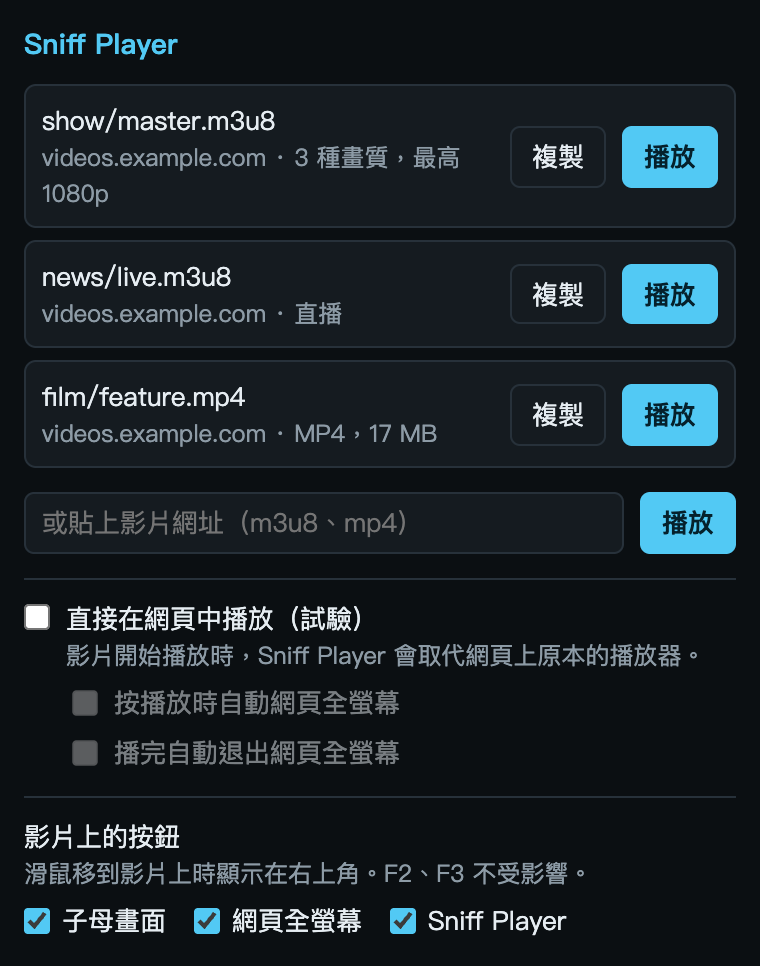
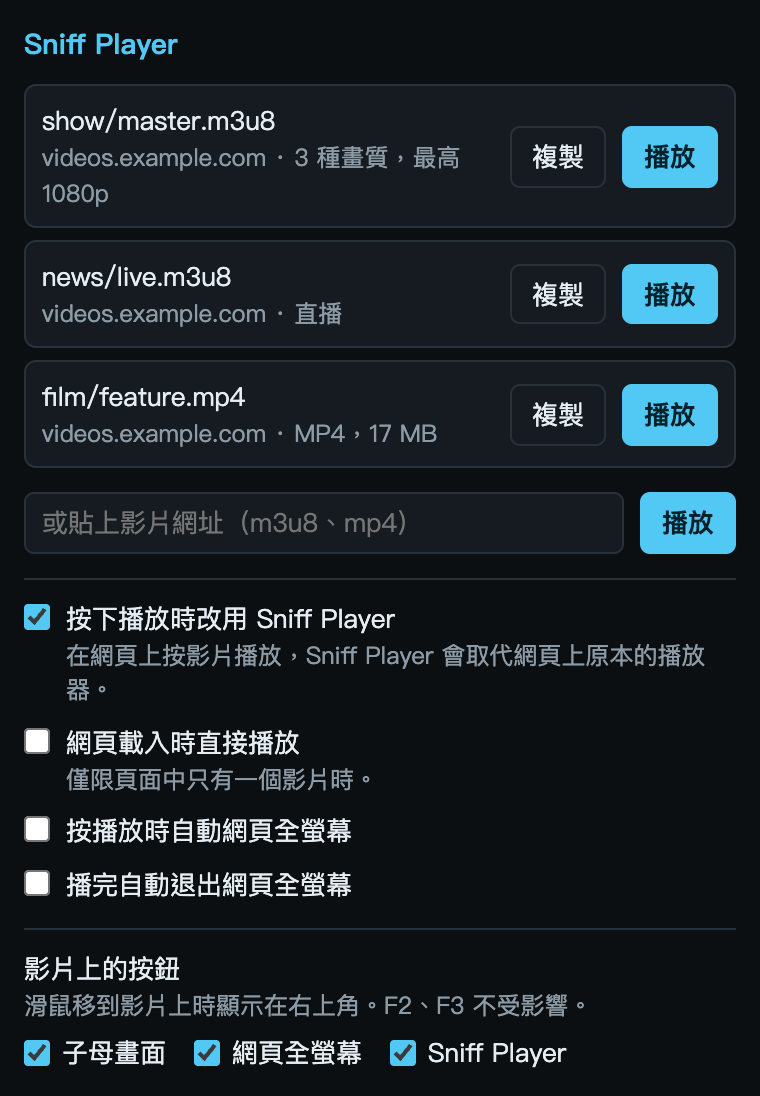
Play in the page, as four settings of their own: pressing play on a video swaps in Sniff Player, on unless turned off; Play when the page loads (was the experimental Play in the page) swaps a video that starts by itself only on a page with a single video, and one left to the site swaps when its play

diff --git a/extension/embed.js b/extension/embed.js
@@ -1,4 +1,5 @@
-// Put into a frame only when "Play in the page" is on and a video was found there. It swaps the
+// Put into a frame when a video was found there and one of the two settings is on: "Use Sniff
+// Player when you press play" (on unless turned off) or "Play when the page loads". It swaps the
 // site's player for Sniff Player in the same place, and fills the window when asked.
 //
 // The player is built into the page itself, in a closed shadow root. Its requests are the page's
@@ -395,7 +396,35 @@
     else unfill();
   }, true);
 
-  async function findAndSwap({ url, kind, title, fillOnPlay, unfillOnEnd }) {
+  // Whether the person started this video, rather than the page. buttons.js saw its play event,
+  // unless the site is one it leaves out or the video is in a shadow root; then the press alone.
+  function pressedPlay(video) {
+    const seen = globalThis.__sniffPlayerPressedPlay;
+    if (seen && video.getRootNode() === document) return seen(video);
+    return !!navigator.userActivation?.isActive;
+  }
+
+  // A video that started by itself and wasn't swapped: pressing play on it later swaps it, as long
+  // as it still plays what was found.
+  const waitingForPress = new WeakSet();
+  function swapWhenPressed(video, found) {
+    if (waitingForPress.has(video)) return;
+    waitingForPress.add(video);
+    const source = video.currentSrc;
+    const onPlay = () => {
+      if (!navigator.userActivation?.isActive) return;
+      video.removeEventListener('play', onPlay);
+      waitingForPress.delete(video);
+      if (!alive() || !video.isConnected || video.currentSrc !== source || current?.video === video) return;
+      if (current) restore(null, true, true);
+      swap(video, found.url, found.kind, found.title, found.options);
+      tellWorker({ type: 'swapped' });
+    };
+    video.addEventListener('play', onPlay);
+  }
+
+  async function findAndSwap({ url, kind, title, fillOnPlay, unfillOnEnd, onPress, onLoad }) {
+    const options = { fillOnPlay: fillOnPlay === true, unfillOnEnd: unfillOnEnd === true };
     for (let tries = 0; tries < FIND_TRIES; tries += 1) {
       const video = findVideo(url);
       if (video && current && (video === current.video || url === current.url)) return { ok: false };
@@ -405,9 +434,18 @@
         continue;
       }
       if (video) {
+        // Pressed play: swapped when that setting is on. Started by itself: only when the page
+        // has this one video and "Play when the page loads" is on.
+        const pressed = pressedPlay(video);
+        const allowed = pressed ? onPress === true
+          : onLoad === true && allVideos().filter((each) => each.isConnected && bigEnough(each)).length === 1;
+        if (!allowed) {
+          if (!pressed && onPress === true) swapWhenPressed(video, { url, kind, title, options });
+          return { ok: false };
+        }
         // Another video on the page started, the next episode say: it takes over from the last.
         if (current) restore(null, true, true);
-        swap(video, url, kind, title, { fillOnPlay: fillOnPlay === true, unfillOnEnd: unfillOnEnd === true });
+        swap(video, url, kind, title, options);
         return { ok: true };
       }
       await new Promise((resolve) => { setTimeout(resolve, FIND_INTERVAL_MS); });

diff --git a/extension/background.js b/extension/background.js
@@ -226,17 +226,18 @@ async function inspectOne(tabId, entry) {
   )));
 }
 
-// Playing in the page, when the setting is on. A found video takes the place of the site's player
+// Playing in the page, when either setting is on: on a press of play (on unless the person turns
+// it off), or for the one video of a page that starts by itself (off unless turned on). A found video takes the place of the site's player
 // in the frame that loaded it, built into that page so that it makes the page's own requests. One
 // swap per tab at a time: the next video started takes over from the last. A frame where the
 // person went back to the site's player is left alone
 // until it navigates. Kept in storage.session, because this worker can stop at any time.
-const SETTING = 'playInPage';
 const swapKey = (tabId) => `swap:${tabId}`;
 const claimed = new Set(); // Tabs with a swap starting, before storage has caught up.
 
-async function playInPageOn() {
-  return (await chrome.storage.local.get(SETTING))[SETTING] === true;
+async function swapSettings() {
+  const stored = await chrome.storage.local.get(['swapOnPress', 'playInPage']);
+  return { onPress: stored.swapOnPress !== false, onLoad: stored.playInPage === true };
 }
 
 async function swapState(tabId) {
@@ -244,7 +245,9 @@ async function swapState(tabId) {
 }
 
 async function maybeEmbed(tabId, frameId, found) {
-  if (claimed.has(tabId) || !(await playInPageOn()) || claimed.has(tabId)) return;
+  if (claimed.has(tabId)) return;
+  const { onPress, onLoad } = await swapSettings();
+  if ((!onPress && !onLoad) || claimed.has(tabId)) return;
   // Taken before anything else waits, so that the playlists of one video make one swap.
   claimed.add(tabId);
   try {
@@ -259,7 +262,7 @@ async function maybeEmbed(tabId, frameId, found) {
     const { fillOnPlay, unfillOnEnd } = await chrome.storage.local.get(['fillOnPlay', 'unfillOnEnd']);
     const result = await chrome.tabs.sendMessage(tabId, {
       sniff: true, type: 'embed', url: found.url, kind: found.kind, title: tab.title,
-      fillOnPlay: fillOnPlay === true, unfillOnEnd: unfillOnEnd === true,
+      fillOnPlay: fillOnPlay === true, unfillOnEnd: unfillOnEnd === true, onPress, onLoad,
     }, { frameId });
     if (!result?.ok) return;
     // One swap per tab: a video started in another frame takes over from the last one.

diff --git a/extension/buttons.js b/extension/buttons.js
@@ -553,6 +553,38 @@
     }
   }, true);
 
+  // Videos the person started: a play while the frame has a real press, a click on the site's
+  // play button say. A swap on a press uses it to tell them from a video starting by itself. The
+  // play event doesn't leave a shadow root, so a video in one is judged by the press alone.
+  // With "Use Sniff Player when you press play" off, a press of play with "Fill the page when you
+  // press play" fills the page with the site's own player. "Leave the filled page when the video
+  // ends" leaves when a site's player filling the page ends, however it was filled.
+  const PLAY_SETTINGS = ['swapOnPress', 'fillOnPlay', 'unfillOnEnd'];
+  let onPlay = { swapOnPress: true, fillOnPlay: false, unfillOnEnd: false };
+  function applyPlaySettings(stored) {
+    onPlay = { swapOnPress: stored.swapOnPress !== false, fillOnPlay: stored.fillOnPlay === true, unfillOnEnd: stored.unfillOnEnd === true };
+  }
+  try {
+    chrome.storage.local.get(PLAY_SETTINGS).then(applyPlaySettings, () => {});
+    chrome.storage.onChanged.addListener((changes, area) => {
+      if (area !== 'local' || !PLAY_SETTINGS.some((name) => name in changes)) return;
+      chrome.storage.local.get(PLAY_SETTINGS).then(applyPlaySettings, () => {});
+    });
+  } catch {
+    // Cut off from the extension: the defaults stand.
+  }
+  const pressedPlay = new WeakSet();
+  document.addEventListener('play', (event) => {
+    const video = event.target;
+    if (!(video instanceof HTMLVideoElement) || !navigator.userActivation?.isActive) return;
+    pressedPlay.add(video);
+    if (!onPlay.swapOnPress && onPlay.fillOnPlay && !filled && isLargeEnough(video)) fillVideo(video);
+  }, true);
+  document.addEventListener('ended', (event) => {
+    if (onPlay.unfillOnEnd && filled && filled.video === event.target) leaveEverywhere();
+  }, true);
+  globalThis.__sniffPlayerPressedPlay = (video) => pressedPlay.has(video);
+
   // Messages from the worker: other frames of this tab
 
   chrome.runtime.onMessage.addListener((message) => {

diff --git a/extension/popup.js b/extension/popup.js
@@ -83,22 +83,16 @@ document.getElementById('manual').addEventListener('submit', (event) => {
   play({ url: document.getElementById('manual-url').value.trim() });
 });
 
-// Off unless the person turns it on. It runs a script in a page only once a video is found there.
-// The two below it apply only to a player in the page, so they wait until it is on.
-const settings = { playInPage: 'play-in-page', fillOnPlay: 'fill-on-play', unfillOnEnd: 'unfill-on-end' };
+// Each setting on its own. A press of play swaps unless the person turns it off; the rest are off
+// unless turned on. Either swap runs a script in a page only once a video is found there.
+const settings = { swapOnPress: 'swap-on-press', playInPage: 'play-in-page', fillOnPlay: 'fill-on-play', unfillOnEnd: 'unfill-on-end' };
+const onUnlessOff = new Set(['swapOnPress']);
 const stored = await chrome.storage.local.get(Object.keys(settings));
-const box = (name) => document.getElementById(settings[name]);
-const showEnabled = () => {
-  for (const name of ['fillOnPlay', 'unfillOnEnd']) box(name).disabled = !box('playInPage').checked;
-};
-for (const name of Object.keys(settings)) {
-  box(name).checked = stored[name] === true;
-  box(name).addEventListener('change', () => {
-    chrome.storage.local.set({ [name]: box(name).checked });
-    showEnabled();
-  });
+for (const [name, id] of Object.entries(settings)) {
+  const input = document.getElementById(id);
+  input.checked = onUnlessOff.has(name) ? stored[name] !== false : stored[name] === true;
+  input.addEventListener('change', () => chrome.storage.local.set({ [name]: input.checked }));
 }
-showEnabled();
 
 // The buttons shown on a video under the pointer. All three show unless the person turns one off.
 const buttonBoxes = { buttonPip: 'button-pip', buttonFill: 'button-fill', buttonSniff: 'button-sniff' };

diff --git a/extension/popup.css b/extension/popup.css
@@ -55,12 +55,11 @@ input {
   font: inherit;
 }
 input:focus { outline: none; border-color: var(--accent); }
-#setting { display: flex; gap: 8px; align-items: flex-start; margin-top: 12px; padding-top: 10px; border-top: 1px solid var(--line); cursor: pointer; }
-#setting input { flex: none; margin: 2px 0 0; accent-color: var(--accent); }
-#setting small { display: block; color: var(--muted); font-size: 12px; }
-.sub-setting { display: flex; gap: 8px; align-items: center; margin: 6px 0 0 24px; cursor: pointer; }
-.sub-setting input { flex: none; margin: 0; accent-color: var(--accent); }
-.sub-setting:has(input:disabled) { opacity: 0.5; cursor: default; }
+#setting, .setting { display: flex; gap: 8px; align-items: flex-start; cursor: pointer; }
+#setting { margin-top: 12px; padding-top: 10px; border-top: 1px solid var(--line); }
+.setting { margin-top: 8px; }
+#setting input, .setting input { flex: none; margin: 2px 0 0; accent-color: var(--accent); }
+#setting small, .setting small { display: block; color: var(--muted); font-size: 12px; }
 #video-buttons { display: flex; flex-wrap: wrap; gap: 6px 14px; margin: 12px 0 0; padding: 10px 0 0; border: 0; border-top: 1px solid var(--line); }
 #video-buttons legend { float: left; width: 100%; padding: 0; }
 #video-buttons small { display: block; color: var(--muted); font-size: 12px; }

diff --git a/extension/popup.html b/extension/popup.html
@@ -14,14 +14,18 @@
     <button type="submit" data-i18n="play"></button>
   </form>
   <label id="setting">
+    <input id="swap-on-press" type="checkbox">
+    <span><span data-i18n="swapOnPress"></span><small data-i18n="swapOnPressHint"></small></span>
+  </label>
+  <label class="setting">
     <input id="play-in-page" type="checkbox">
     <span><span data-i18n="playInPage"></span><small data-i18n="playInPageHint"></small></span>
   </label>
-  <label class="sub-setting">
+  <label class="setting">
     <input id="fill-on-play" type="checkbox">
     <span data-i18n="fillOnPlay"></span>
   </label>
-  <label class="sub-setting">
+  <label class="setting">
     <input id="unfill-on-end" type="checkbox">
     <span data-i18n="unfillOnEnd"></span>
   </label>

diff --git a/PRIVACY.md b/PRIVACY.md
@@ -2,21 +2,21 @@
 
 English · [繁體中文](#繁體中文)
 
-Effective date: 2026-11-11
+Effective date: 2026-11-14
 
 This policy covers the Sniff Player browser extension, published by V-AX.
 
 ## What the extension handles
 
 - **Web history and site content:** the URLs and response headers of the requests your tabs make, and each tab's URL and title. The extension uses them only to recognise HLS playlists and video files, and to name the player tab. It doesn't read the content of the pages you visit, except as described next.
-- **Play in the page (experimental, off unless you turn it on):** in a frame where a video was found, the extension reads the page's video elements, to find the one that loaded the video, and the page's title and the heading near the video, to name it. It doesn't keep or send them.
+- **Play in the page (on by default when you press play on a video; for a page's only video as it loads, only if you turn it on):** in a frame where a video was found, the extension reads the page's video elements, to find the one that loaded the video, and the page's title and the heading near the video, to name it. It doesn't keep or send them.
 - **Buttons on videos:** a small script in every page finds the video under the pointer, to show its buttons. It doesn't read anything else on the page, and keeps and sends nothing. Pressing Sniff Player on a video works as Play in the page does, for that video.
 - **The list of detected videos:** their URLs, qualities, length and size.
 - **URLs you paste** into the extension to play.
 
 ## Where it is kept
 
-The list of detected videos is kept in the browser's session storage. It isn't written to disk, and it's gone when you close the browser. The only other things stored are your settings, whether Play in the page and its two options are on and which buttons show on videos, in the browser's local storage. A video you play opens in a normal tab, so its URL can stay in your browser history like any other page.
+The list of detected videos is kept in the browser's session storage. It isn't written to disk, and it's gone when you close the browser. The only other things stored are your settings, which of the four Play in the page settings are on and which buttons show on videos, in the browser's local storage. A video you play opens in a normal tab, so its URL can stay in your browser history like any other page.
 
 ## What is sent, and to whom
 
@@ -25,7 +25,7 @@ The extension has no server and no analytics. It sends nothing to V-AX or to any
 - It reads each detected playlist once, without cookies, to learn its qualities and length.
 - When you press Play, the player requests the video from its own host, with your cookies for that host only.
 - If a host refuses a request, the player sends that host the origin of the page where the video was found, once.
-- With Play in the page on, the player in a page requests the video as part of that page, with the same cookies and origin the site's own player would send.
+- When Sniff Player plays in a page, the player there requests the video as part of that page, with the same cookies and origin the site's own player would send.
 
 ## What we don't do
 
@@ -39,21 +39,21 @@ If this policy changes, the new version will be published at this address with a
 
 ## 繁體中文
 
-生效日期：2026-11-11
+生效日期：2026-11-14
 
 本政策適用於 V-AX 發布的 Sniff Player 瀏覽器擴充工具。
 
 ### 擴充工具會處理的資料
 
 - **網頁記錄與網站內容：** 分頁發出的請求網址與回應標頭，以及每個分頁的網址和標題。只用來辨識 HLS 播放清單和影片檔，以及為播放分頁命名。除了下一項，不讀取你造訪網頁的內容。
-- **直接在網頁中播放（試驗，你開啟才會用）：** 在偵測到影片的框架裡，擴充工具會讀取網頁上的影片元素，找出載入該影片的那一個，並讀取網頁標題和影片附近的標題來命名。這些資料不會保存或傳送。
+- **直接在網頁中播放（按下播放時預設開啟；網頁載入時直接播放要你開啟才會用）：** 在偵測到影片的框架裡，擴充工具會讀取網頁上的影片元素，找出載入該影片的那一個，並讀取網頁標題和影片附近的標題來命名。這些資料不會保存或傳送。
 - **影片上的按鈕：** 每個網頁裡都有一段小程式，找出滑鼠下的影片來顯示按鈕，不讀網頁其他內容，也不保存或傳送任何資料。在影片上按 Sniff Player，就跟「直接在網頁中播放」一樣處理那支影片。
 - **偵測到的影片清單：** 影片網址、畫質、片長與大小。
 - **你貼上** 要播放的網址。
 
 ### 存放位置
 
-偵測到的影片清單存在瀏覽器的工作階段儲存空間，不寫入磁碟，關閉瀏覽器就會消失。另外只會在瀏覽器的本機儲存空間記住你的設定，也就是「直接在網頁中播放」和它的兩個選項是否開啟，以及影片上要顯示哪些按鈕。你播放的影片會開在一般分頁，所以網址可能和其他網頁一樣留在瀏覽紀錄裡。
+偵測到的影片清單存在瀏覽器的工作階段儲存空間，不寫入磁碟，關閉瀏覽器就會消失。另外只會在瀏覽器的本機儲存空間記住你的設定，也就是網頁中播放的四個設定哪些開啟，以及影片上要顯示哪些按鈕。你播放的影片會開在一般分頁，所以網址可能和其他網頁一樣留在瀏覽紀錄裡。
 
 ### 傳送哪些資料、傳給誰
 
@@ -62,7 +62,7 @@ If this policy changes, the new version will be published at this address with a
 - 每份偵測到的播放清單會不帶 Cookie 再讀一次，以取得畫質與片長。
 - 按下播放時，播放器向影片所在主機請求影片，只帶該主機的 Cookie。
 - 如果主機拒絕請求，播放器會把發現影片的網頁來源送給該主機一次。
-- 開啟「直接在網頁中播放」時，網頁裡的播放器會以那個網頁的身分請求影片，帶的 Cookie 和來源跟網站自己的播放器相同。
+- Sniff Player 在網頁中播放時，網頁裡的播放器會以那個網頁的身分請求影片，帶的 Cookie 和來源跟網站自己的播放器相同。
 
 ### 我們不做的事
 

diff --git a/README.md b/README.md
@@ -34,7 +34,7 @@ For every feature in detail, see [docs/FEATURES.md](docs/FEATURES.md).
 - **One row per video.** The qualities of one video are folded into a single row, with its length or a Live tag.
 - **A player with quality and speed controls.** Keyboard shortcuts included, and a clear message when a video can't play.
 - **Paste a URL.** Play any m3u8 or video file link directly.
-- **Play in the page (experimental).** Off by default. When it's on, Sniff Player takes the place of the site's player, with a button to fill the page.
+- **Plays in the page when you press play.** On by default: press play on a site's video and Sniff Player takes the place of its player, with a button to fill the page. In the popup you can turn it off, play a page's only video as it loads, and fill the page when you press play.
 - **Buttons on videos.** With the pointer on a video: picture-in-picture, fill the page, and Sniff Player, which plays it right there. <kbd>F2</kbd> and <kbd>F3</kbd> work too. Choose which buttons show in the popup.
 - **English and Traditional Chinese.** It follows your browser's language.
 
@@ -70,11 +70,11 @@ In the player: <kbd>Space</kbd> or <kbd>K</kbd> plays and pauses, <kbd>←</kbd>
 - **Video files under 5 MB are left out.** They are usually ads or intros.
 - **Segments aren't listed.** An MP4 that a streaming site fetches piece by piece from script can't be played alone. DASH (mpd) isn't supported yet.
 - **Not available in Incognito windows.** This keeps private browsing apart from your normal sign-ins.
-- **Play in the page is experimental.** A site that rebuilds its player can take the place back, and a page of several videos is matched by the one you start.
+- **Playing in the page depends on the site.** A site that rebuilds its player can take the place back, and a page of several videos is matched by the one you start.
 
 ## Privacy and permissions
 
-Sniff Player has no server and no analytics, and it sends nothing to its authors. The list of detected URLs stays in the browser's session storage and is gone when you close the browser. A video you play is a normal tab, so its URL can stay in your browser history. It needs access to all sites because it has to see what any page loads. A small script in every page shows the buttons on videos and reads nothing else. With Play in the page on, or when you press Sniff Player on a video, it also puts a script into that page to swap the player there; that player's requests are the page's own. The full [privacy policy](PRIVACY.md) is in this repository and at [v-ax.com](https://v-ax.com/privacy/sniff-player/). [SECURITY.md](SECURITY.md) explains each permission and what the extension sends to the sites you visit.
+Sniff Player has no server and no analytics, and it sends nothing to its authors. The list of detected URLs stays in the browser's session storage and is gone when you close the browser. A video you play is a normal tab, so its URL can stay in your browser history. It needs access to all sites because it has to see what any page loads. A small script in every page shows the buttons on videos and reads nothing else. When you press play on a video (unless you turn that off), with Play when the page loads on, or when you press Sniff Player on a video, it also puts a script into that page to swap the player there; that player's requests are the page's own. The full [privacy policy](PRIVACY.md) is in this repository and at [v-ax.com](https://v-ax.com/privacy/sniff-player/). [SECURITY.md](SECURITY.md) explains each permission and what the extension sends to the sites you visit.
 
 ## Third-party
 

diff --git a/README.zh-TW.md b/README.zh-TW.md
@@ -35,7 +35,7 @@
 - **可切換畫質和速度的播放器。** 有快捷鍵，影片無法播放時也會明確說明原因。
 - **貼上網址。** 可直接播放任何 m3u8 或影片檔連結。
 - **影片上的按鈕。** 滑鼠移到影片上會出現子母畫面、網頁全螢幕和 Sniff Player，最後一個會直接在原位置改用 Sniff Player 播放。也可以按 <kbd>F2</kbd>、<kbd>F3</kbd>。要顯示哪幾個，可以在選單裡勾選。
-- **直接在網頁中播放（試驗）。** 預設關閉。開啟後 Sniff Player 會取代網站原本的播放器，也有網頁全螢幕按鈕。
+- **按下播放就在網頁中改用 Sniff Player。** 預設開啟：在網站上按影片播放，Sniff Player 會取代原本的播放器，也有網頁全螢幕按鈕。選單裡可以關掉，也可以讓只有一支影片的網頁載入時直接播放，或按播放時自動網頁全螢幕。
 - **英文和繁體中文。** 依瀏覽器語言顯示。
 
 ## 安裝
@@ -70,11 +70,11 @@
 - **小於 5 MB 的影片檔不列出。** 這類檔案多半是廣告或片頭。
 - **不列出分段。** 串流網站用程式分段抓取的 MP4 無法單獨播放。尚未支援 DASH (mpd)。
 - **無痕視窗無法使用。** 避免無痕瀏覽和平常的登入身分混在一起。
-- **「直接在網頁中播放」還在試驗。** 會重建播放器的網站可能把位置拿回去；一頁有好幾支影片時，以你開始播放的那支為準。
+- **在網頁中播放要看網站。** 會重建播放器的網站可能把位置拿回去；一頁有好幾支影片時，以你開始播放的那支為準。
 
 ## 隱私與權限
 
-Sniff Player 沒有伺服器，也沒有使用分析，不會傳任何資料給作者。偵測到的網址清單只存在瀏覽器的工作階段儲存空間，關閉瀏覽器就會消失。你播放的影片是一般分頁，所以網址可能留在瀏覽紀錄裡。它需要存取所有網站，因為要看得到任何網頁載入了什麼。每個網頁裡都有一段小程式，只用來在影片上顯示按鈕，不讀其他內容。開啟「直接在網頁中播放」，或在影片上按 Sniff Player 時，它還會在那個網頁放入程式來替換播放器，那個播放器的請求就是網頁自己的請求。完整內容請看[隱私權政策](PRIVACY.md#繁體中文)，也可以在 [v-ax.com](https://v-ax.com/privacy/sniff-player/) 看到。每項權限的用途，以及它會送什麼給你造訪的網站，請看 [SECURITY.md](SECURITY.md)。
+Sniff Player 沒有伺服器，也沒有使用分析，不會傳任何資料給作者。偵測到的網址清單只存在瀏覽器的工作階段儲存空間，關閉瀏覽器就會消失。你播放的影片是一般分頁，所以網址可能留在瀏覽紀錄裡。它需要存取所有網站，因為要看得到任何網頁載入了什麼。每個網頁裡都有一段小程式，只用來在影片上顯示按鈕，不讀其他內容。在影片上按播放（除非你關掉這項）、開啟「網頁載入時直接播放」，或在影片上按 Sniff Player 時，它還會在那個網頁放入程式來替換播放器，那個播放器的請求就是網頁自己的請求。完整內容請看[隱私權政策](PRIVACY.md#繁體中文)，也可以在 [v-ax.com](https://v-ax.com/privacy/sniff-player/) 看到。每項權限的用途，以及它會送什麼給你造訪的網站，請看 [SECURITY.md](SECURITY.md)。
 
 ## 第三方元件
 

diff --git a/docs/FEATURES.md b/docs/FEATURES.md
@@ -49,16 +49,19 @@ In the popup, under **Buttons on videos**, untick the ones you don't want; with 
   <img src="../.github/assets/screens/buttons-en.png" alt="A video on a made-up site, with the Picture-in-picture, Fill the page and Sniff Player buttons above its top right corner">
 </p>
 
-## Play in the page (experimental)
+## Play in the page
 
-Off by default. Turn it on with the checkbox at the bottom of the list. When a video starts on a page, Sniff Player pauses the site's player and takes its place, at the same size, from the same point of the video.
+On by default. When you press play on a video in a page, Sniff Player pauses the site's player and takes its place, at the same size, from the same point of the video. Four settings at the bottom of the list, each on its own:
+
+- **Use Sniff Player when you press play.** On by default. A video that starts by itself, without your press, stays with the site; press play on it later and Sniff Player takes over.
+- **Play when the page loads.** Off by default. Sniff Player also takes over a video that starts by itself, but only on a page with a single video.
+- **Fill the page when you press play** and **Leave the filled page when the video ends.** Off by default. With the first setting on, they apply to Sniff Player; with it off, to the site's own player. A video that starts by itself, without your press, doesn't fill the page.
 
 - **Sound as the site had it.** Sniff Player starts at full volume, muted if the site's player was muted, and its sound button or volume bar turns the sound on.
 - **The right video on a page of several.** A video file is matched by its URL. A stream is matched to the video you just started: of those playing, the largest.
 - **The next one takes over.** Start another video on the page, the next episode say, and Sniff Player moves there. The last one goes back to the site's player, paused at the point you reached, and playing it again brings Sniff Player back to it.
 - **Short clips stay with the site.** A clip under a minute, a site's intro or an ad say, plays on in the site's player, with anything the site asks first, such as an age check. Sniff Player takes over when the episode starts.
 - **Fill the page.** The button between volume and full screen makes the player fill the browser window, with the rest of the page out of the way. Press it again, or <kbd>Esc</kbd> or <kbd>W</kbd>, to go back.
-- **Fill the page on its own.** Two options under the setting, both off by default: fill the page when you press play on the site's player, and leave it when the video ends. A video that starts by itself, without your press, doesn't fill the page.
 - **Back to the site's player.** A button on the bar, at the point you reached. Sniff Player then leaves that frame alone until it goes to another page.
 - **When it does nothing.** The script that swaps the player runs in a page only once a video is found there. Some sites rebuild their player, and Sniff Player then gives the place back to the site.
 

diff --git a/SECURITY.md b/SECURITY.md
@@ -9,7 +9,7 @@ Sniff Player has no server and no analytics, and it sends nothing to its authors
 - **`storage`.** To keep the list. It uses session storage only: the list isn't written to disk, and it's gone when you close the browser.
 - **`declarativeNetRequestWithHostAccess`.** To set request headers for the player tab, as described below.
 - **A script in every page.** It shows the buttons on the video under the pointer and handles <kbd>F2</kbd>, <kbd>F3</kbd> and <kbd>Esc</kbd>. It reads the page's video elements and nothing else, keeps nothing and sends nothing. Which buttons show is your choice in the popup. Its buttons are in a closed shadow root, and only real presses count.
-- **`scripting`.** For **Play in the page**, an experimental setting that is off unless you turn it on, and for the Sniff Player button on a video. When a video is found in a frame, or you press the button, the extension puts a script into that frame. The script finds the video that loaded it, reads the page's title and the heading near the video to name it, pauses the site's player and builds Sniff Player in its place. The setting itself is kept in the browser's local storage.
+- **`scripting`.** For **Play in the page**, which swaps a video you press play on (unless you turn that off) and, if you turn it on, a page's only video as it loads, and for the Sniff Player button on a video. When a video is found in a frame, or you press the button, the extension puts a script into that frame. The script finds the video that loaded it, reads the page's title and the heading near the video to name it, pauses the site's player and builds Sniff Player in its place. The settings themselves are kept in the browser's local storage.
 
 ## What it sends to the sites you visit
 
@@ -20,7 +20,7 @@ Sniff Player has no server and no analytics, and it sends nothing to its authors
 ## Play in the page
 
 - **The player in a page is part of that page.** It's built in a closed shadow root, which the page's scripts can't reach, but its requests are the page's own: the same cookies, origin and referrer the site's player would send. So it can't reach anything the page couldn't. None of the player tab's header rules apply.
-- **Sites can tell.** A page can see that a player was swapped in, and so that the extension is installed and the setting is on.
+- **Sites can tell.** A page can see that a player was swapped in, and so that the extension is installed.
 - **Filling the window from a frame needs a real press.** A frame inside a page can't use it to cover the page around it on its own.
 - **Only real key presses count.** Keys a page sends from script are ignored.
 - **The Sniff Player button plays what that page loaded.** Not a video an earlier page in the same frame loaded.
